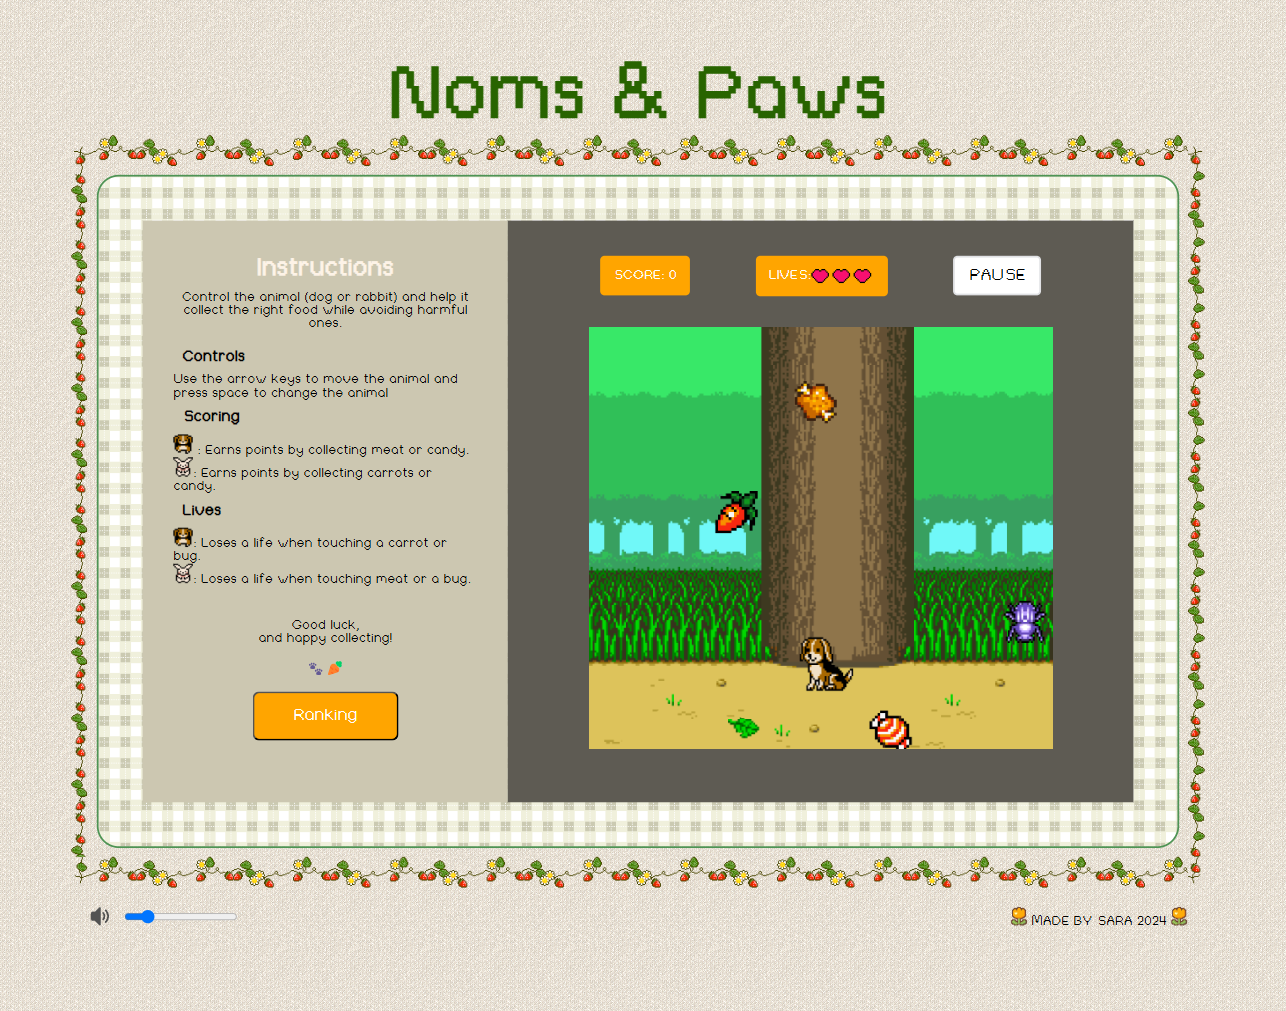
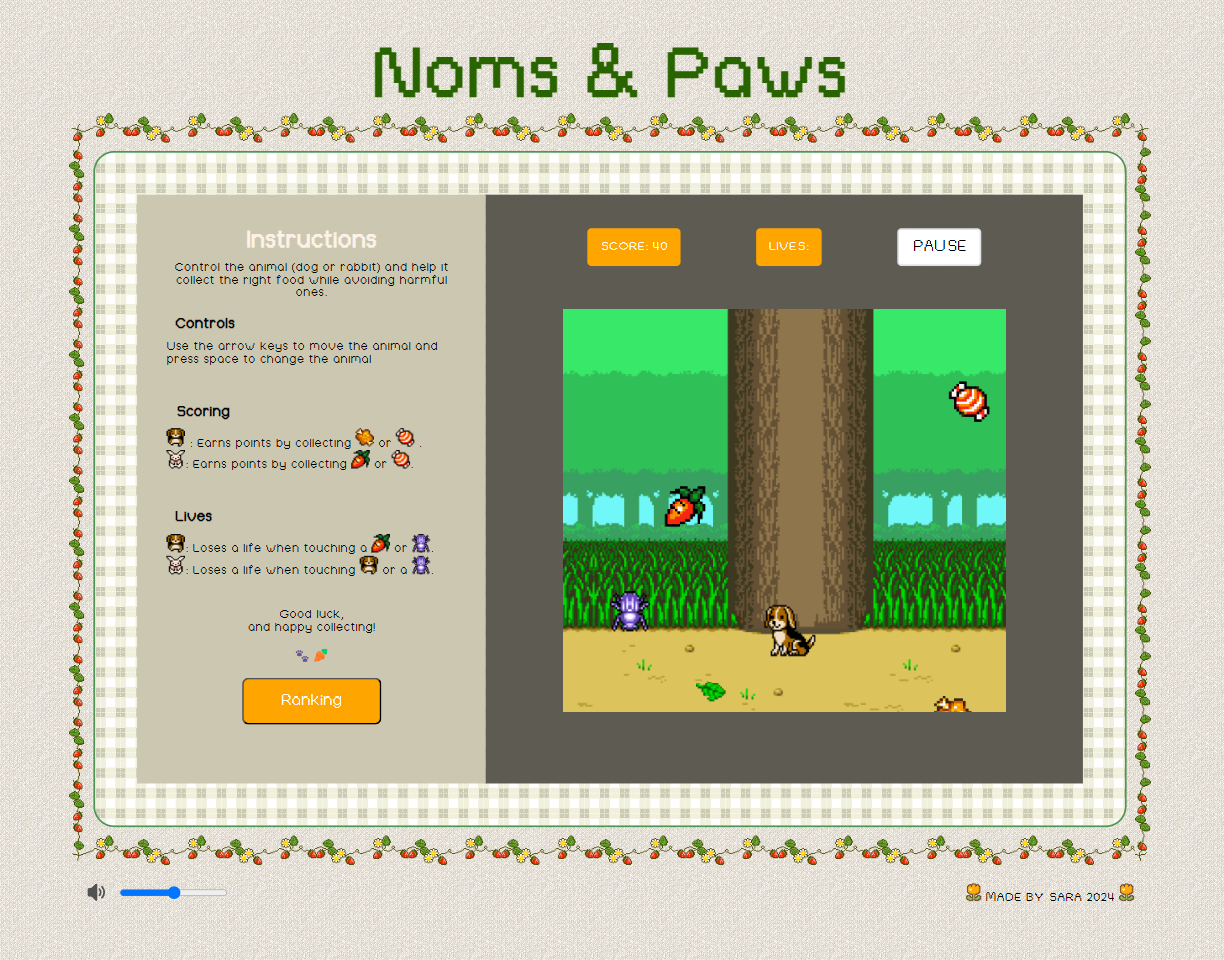
feat: added spacing for instructions and made them clearer

diff --git a/index.html b/index.html
@@ -39,16 +39,16 @@
               <article>
                 <h3>Scoring</h3>
                 <ul>
-                 <li><img src="assets/img/dog-icon.png" alt="dog icon" class ="animal-icon" /> : Earns points by collecting meat or candy.</li>
-                 <li><img src="assets/img/rabbit-icon.png" alt="rabbit icon" class ="animal-icon" />:</strong> Earns points by collecting carrots or candy.</li>
+                 <li><img src="assets/img/dog-icon.png" alt="dog icon" class ="animal-icon" /> : Earns points by collecting <img src="assets/img/meat.png" alt="meat icon" class ="animal-icon" /> or <img src="assets/img/candy.png" alt="candy icon" class ="animal-icon" /> .</li>
+                 <li><img src="assets/img/rabbit-icon.png" alt="rabbit icon" class ="animal-icon" />:</strong> Earns points by collecting <img src="assets/img/carrot.png" alt="carrot icon" class ="animal-icon" /> or <img src="assets/img/candy.png" alt="candy icon" class ="animal-icon" />.</li>
                 </ul>
               </article>
 
               <article>
                 <h3>Lives</h3>
                 <ul>
-                 <li><img src="assets/img/dog-icon.png" alt="dog icon" class ="animal-icon" />: Loses a life when touching a carrot or bug.</li>
-                 <li><img src="assets/img/rabbit-icon.png" alt="rabbit icon" class ="animal-icon" />: Loses a life when touching meat or a bug.</li>
+                 <li><img src="assets/img/dog-icon.png" alt="dog icon" class ="animal-icon" />: Loses a life when touching a <img src="assets/img/carrot.png" alt="carrot icon" class ="animal-icon" /> or <img src="assets/img/bug.png" alt="bug icon" class ="animal-icon" />.</li>
+                 <li><img src="assets/img/rabbit-icon.png" alt="rabbit icon" class ="animal-icon" />: Loses a life when touching <img src="assets/img/dog-icon.png" alt="dog icon" class ="animal-icon" /> or a <img src="assets/img/bug.png" alt="bug icon" class ="animal-icon" />.</li>
                 </ul>
               </article>
             </div>

diff --git a/assets/css/styles.css b/assets/css/styles.css
@@ -102,6 +102,13 @@ li {
   list-style-type: none;
 }
 
+.instructions {
+  display: flex;
+  flex-direction: column;
+  align-content: space-between;
+  gap: 35px;
+}
+
 .animal-icon {
   width: 22px;
   height: 22px;
